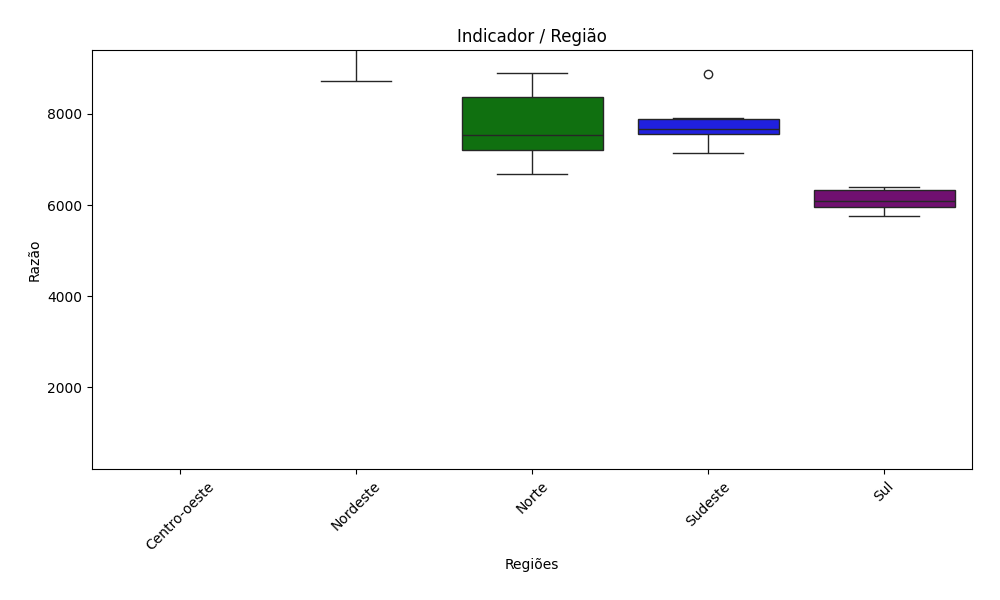
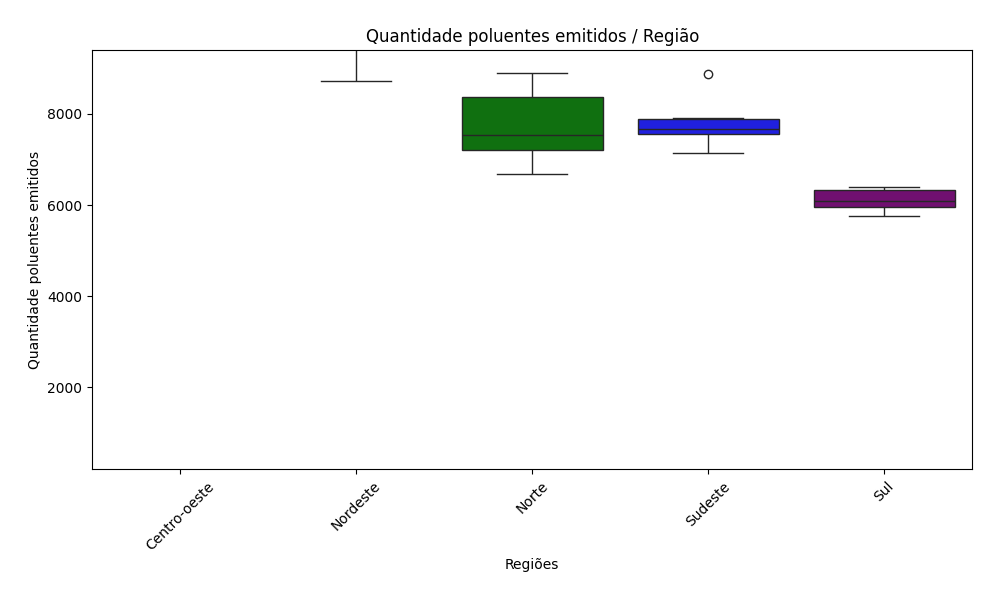
:art: more readable plots  :art:

Changed region(s): [[0.372, 0.03, 0.713, 0.09], [0.031, 0.27, 0.062, 0.6]]

diff --git a/filtros_grafico.py b/filtros_grafico.py
@@ -69,6 +69,15 @@ indicadores = ['quant_efluentes_liquidos',
                'quant_residuos_solidos',
                'co2_emissions']
 
+indicadores_t = dict(zip(
+    indicadores, ['Quantidade efluentes líquidos',
+                  'Quantidade poluentes emitidos',
+                  'Quantidade resíduos sólidos',
+                  'Emissão de CO2']
+))
+
+print(indicadores_t)
+
 
 def count_unique_firms(base):
     num_firms = dict()
@@ -298,9 +307,9 @@ def gera_plots(data, csv_description=None):
                 quantidade_empresas[key].to_csv(f'output/quantidade_empresas_{key}.csv', index=False)
                 
                 plot_boxplot(quantidade_empresas[key],
-                                y='razao', number=number, ylabel='Razão',
+                                y='razao', number=number, ylabel=indicadores_t[indicador],
                                 x='region', pallete=color_region, ylim_inferior=200, ylim_superior=quantidade_empresas[key]['razao'].mean(),
-                                title='Indicador / Região', xlabel='Regiões', co2=indicador)
+                                title=f'{indicadores_t[indicador]} / Região', xlabel='Regiões', co2=indicador)
                 number += 1
 
     return csv_description
